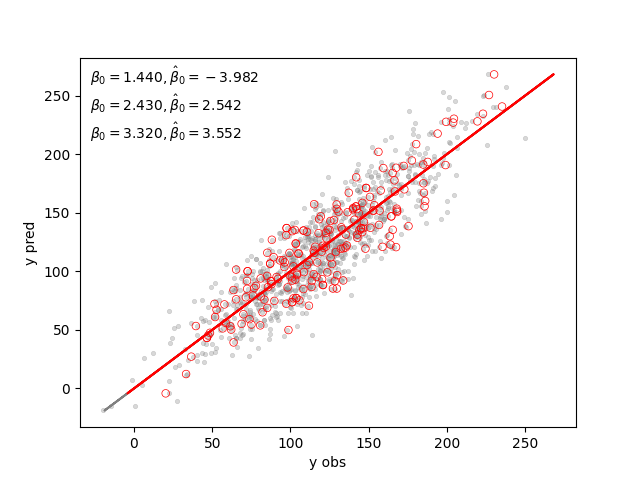
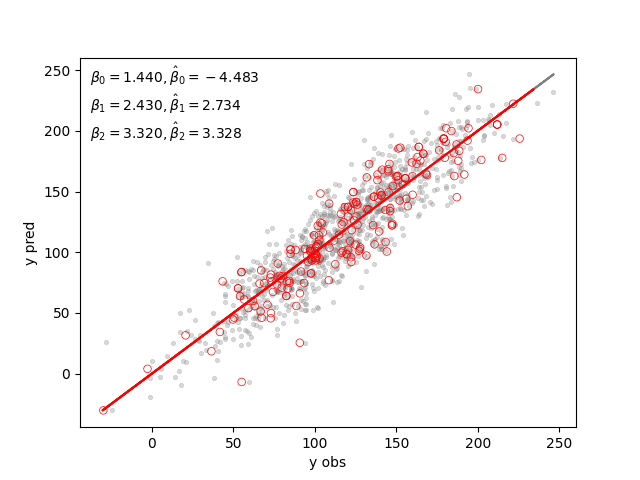
update

diff --git a/mlr.py b/mlr.py
@@ -52,7 +52,7 @@ class MLR:
         ax.plot(self.y, self.y, color='gray')
         ax.plot(self.y_sample, self.y_sample, color='red')
         for i in range(len(self.beta)):
-            ax.text(x=0.02, y=0.93 - 0.075*i, transform=ax.transAxes, s=rf'$\beta_0 = {self.beta[i]:.3f}, \hat{{\beta}}_0 = {self.beta_hat[i]:.3f}$')        
+            ax.text(x=0.02, y=0.93 - 0.075*i, transform=ax.transAxes, s=rf'$\beta_{i} = {self.beta[i]:.3f}, \hat{{\beta}}_{i} = {self.beta_hat[i]:.3f}$')        
         ax.set_ylabel('y pred')
         ax.set_xlabel('y obs')
         plt.savefig('mlr_pop_vs_sample.png')
@@ -78,7 +78,7 @@ class MLR:
         self.leverage = influence.hat_matrix_diag
         self.studentized_resid = influence.resid_studentized_external
 
-    def plot_diagnostics(self):
+    def plot_diagnostics(self, filename):
         fig, ax = plt.subplots(1, 3, figsize=(15, 4))
         ax[0].set_title(r'Distr. $e_i$')
         ax[0].hist(self.e_i, density=True)
@@ -101,7 +101,7 @@ class MLR:
         ax[2].set_xlabel('Leverage')
         ax[2].set_ylabel(r'Studentized $e_i$')
         plt.tight_layout()
-        plt.savefig('mlr_distr_ei.png')
+        plt.savefig(filename)
 
 
     def run(self):
@@ -113,11 +113,31 @@ class MLR:
         self.compute_residuals_stats()
         self.print_rss_relative_to_y_mean()
         self.compute_diagnostics()
-        self.plot_diagnostics()
+        self.plot_diagnostics(filename='mlr_distr_ei.png')
+
+    def model_with_interaction(self):
+
+        n = 500
+        beta = [1.3, 2.4, 4.2, 4.1]
+        X1 = np.random.normal(10, 20, n)
+        X2 = np.random.normal(10, 20, n)
+        X1X2 = X1*X2
+        y = beta[0] + beta[1]*X1 + beta[2]*X2 + beta[3]*X1X2 + np.random.normal(0, 10, n)
+        X_with_interaction = np.column_stack([X1, X2, X1X2])
+        X_with_interaction = sm.add_constant(X_with_interaction)
+        X_no_interaction = np.column_stack([X1, X2])
+        X_no_interaction = sm.add_constant(X_no_interaction)        
+
+        self.model_sample = sm.OLS(y, X_with_interaction)
+        self.model_sample = self.model_sample.fit()
+        self.y_hat = self.model_sample.predict(X_with_interaction)
+        self.compute_residuals_stats()
+        self.compute_diagnostics()
+        self.plot_diagnostics('mlr_distr_ei_with_interaction.png')
 
 
 if __name__ == '__main__':
     mlr = MLR(1000, 200, 20, [1.44, 2.43, 3.32])
-    mlr.run()
+    mlr.model_with_interaction()
 
 

diff --git a/README.md b/README.md
@@ -160,6 +160,13 @@ $y = \beta_0 + \beta_1X_1 + \beta_2X_2 + \beta_3X_1X_2 +  + \epsilon$
 
 we get the more familiar form for MLR with interaction. If it's significant, the interaction term $\beta_3$ in this example model is interpreted as the average increase in the effect of $X_1$ on $y$ by unit increase in $X_2$.
 
+Interestingly, it can happen that the interaction term is significant but not the two associated main effects. In that case, the 'hierarchical principle' indicates those non-significant main effects should still be kept in the model. The rationale is: if the interaction exists, whether main effects are zero or not is irrelevant, because those factors must be present for an interaction to take place at all. Also, those main effects are likely correlated with the interaction term, so leaving them out makes no sense.
+
+### Interaction with qualitative terms
+
+
+
+
 ### Collinearity
 
 inflated variance of beta
